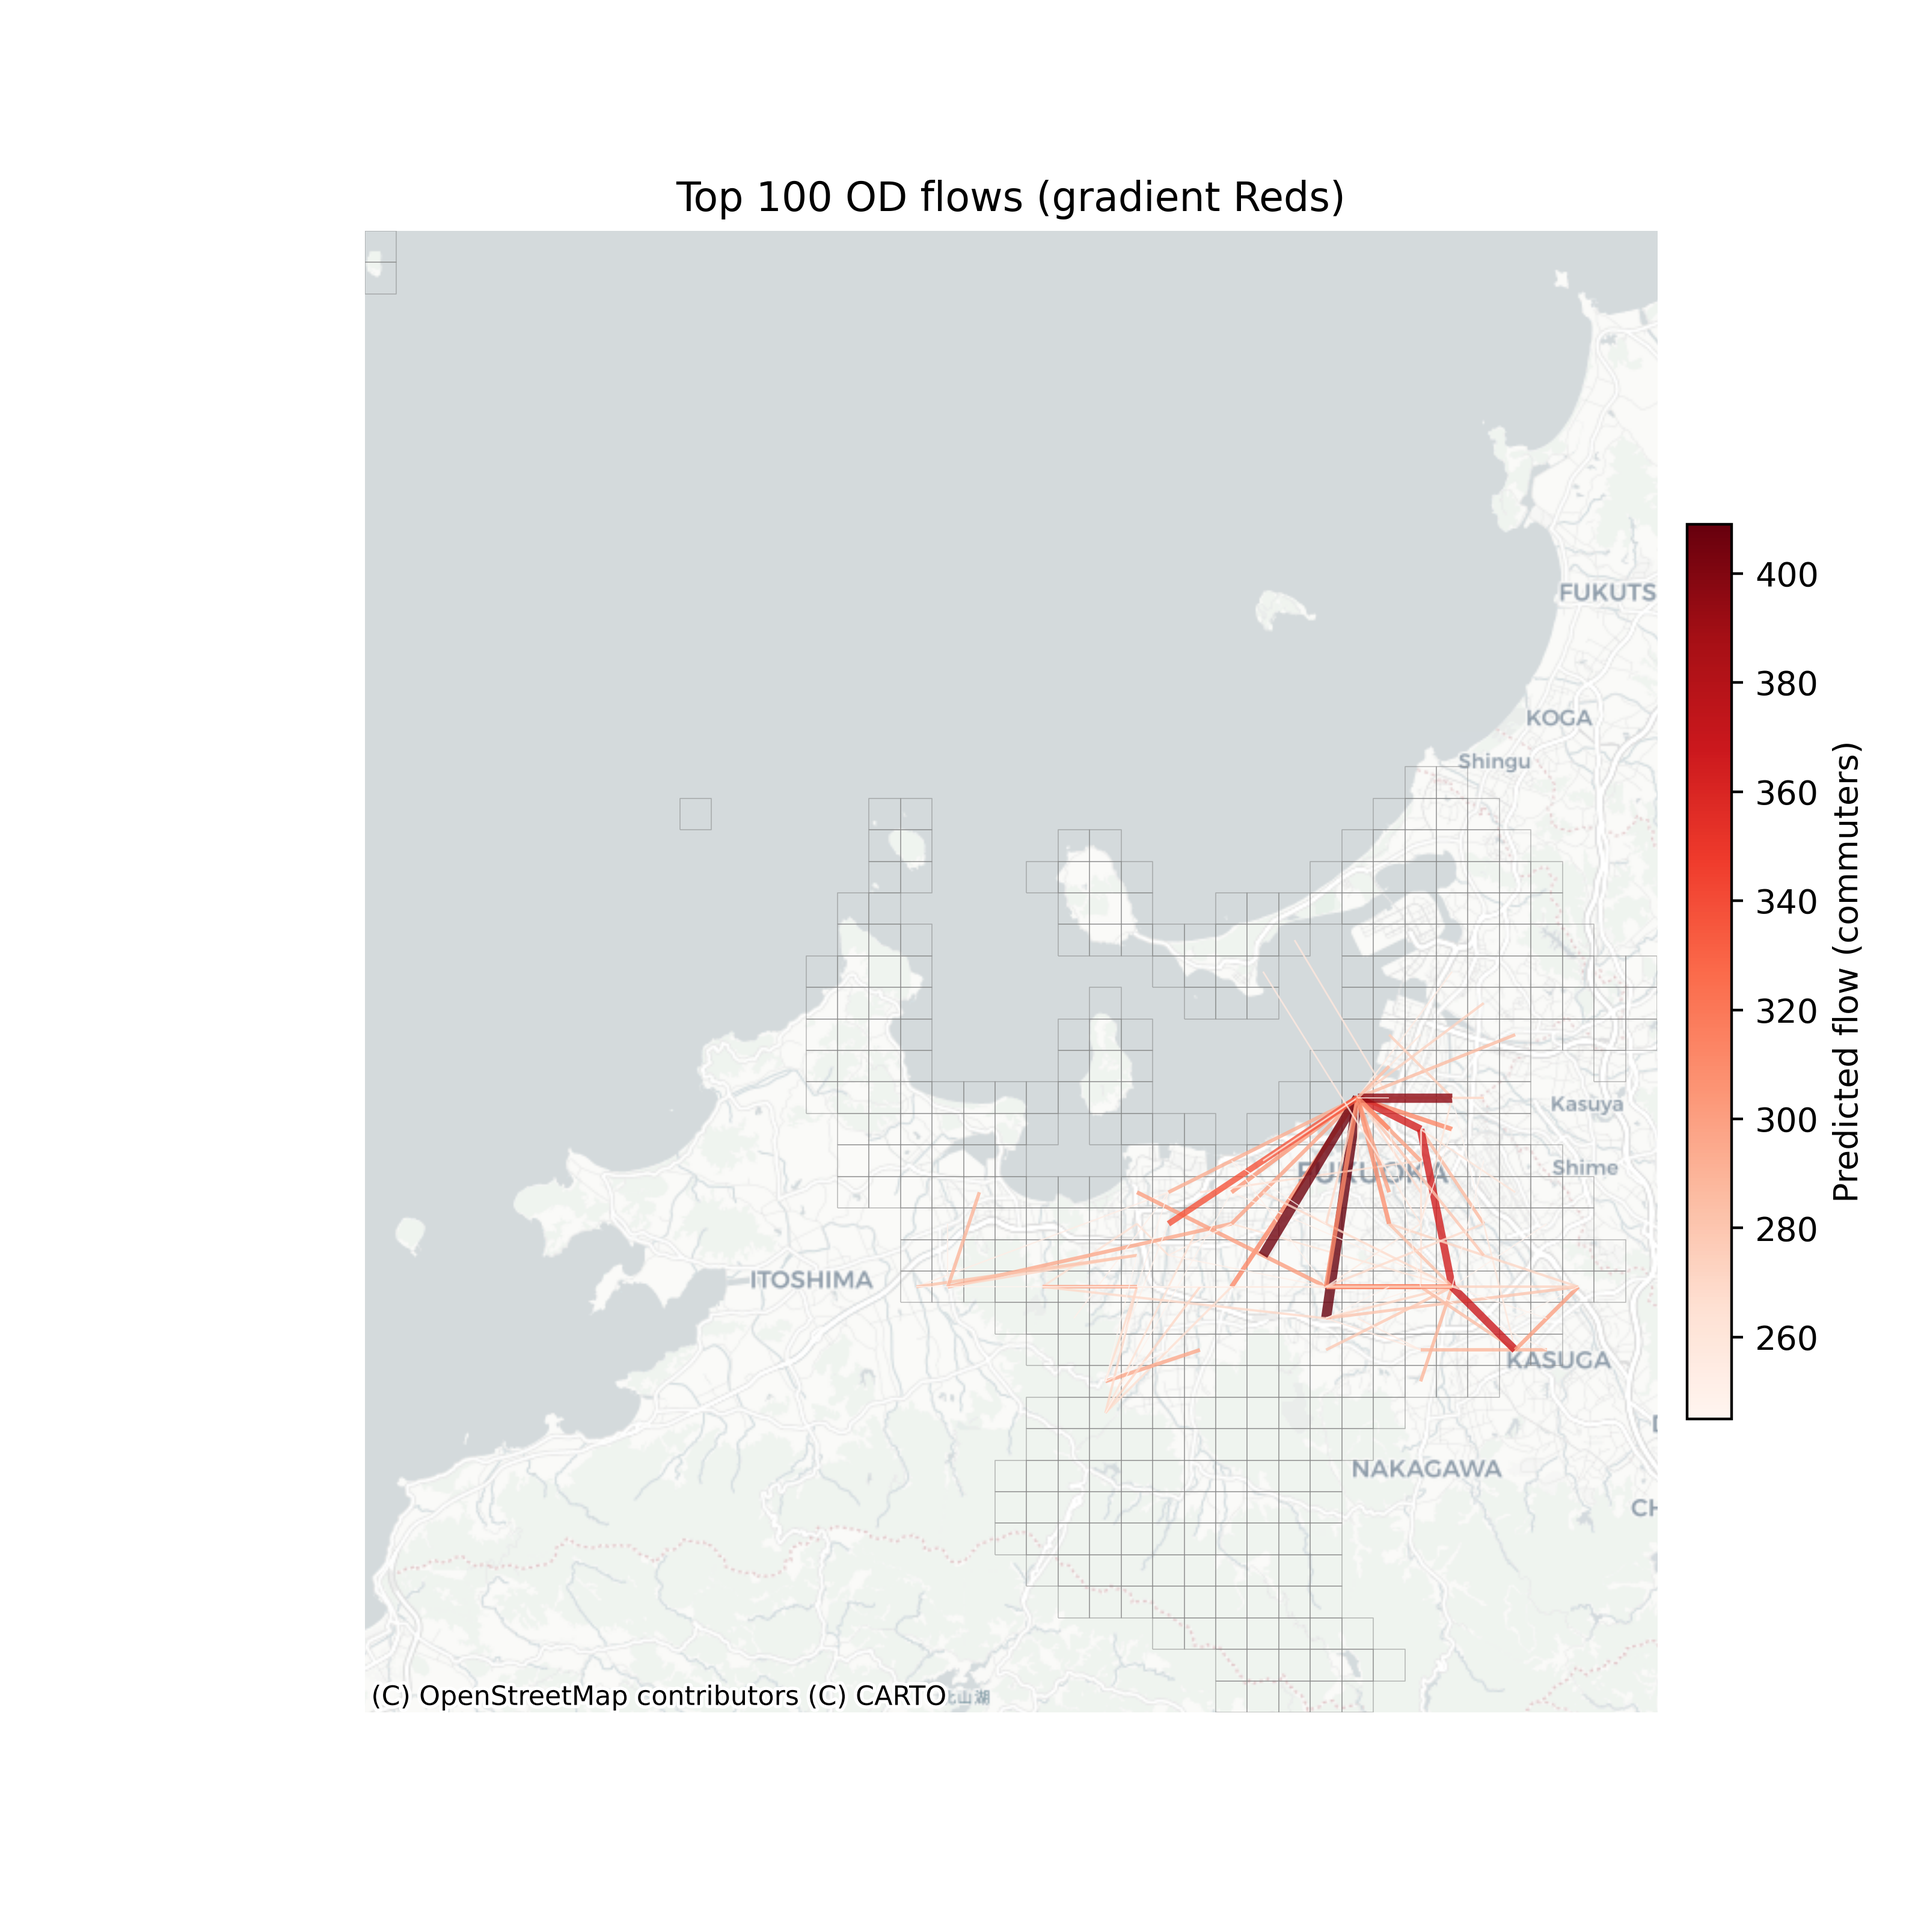
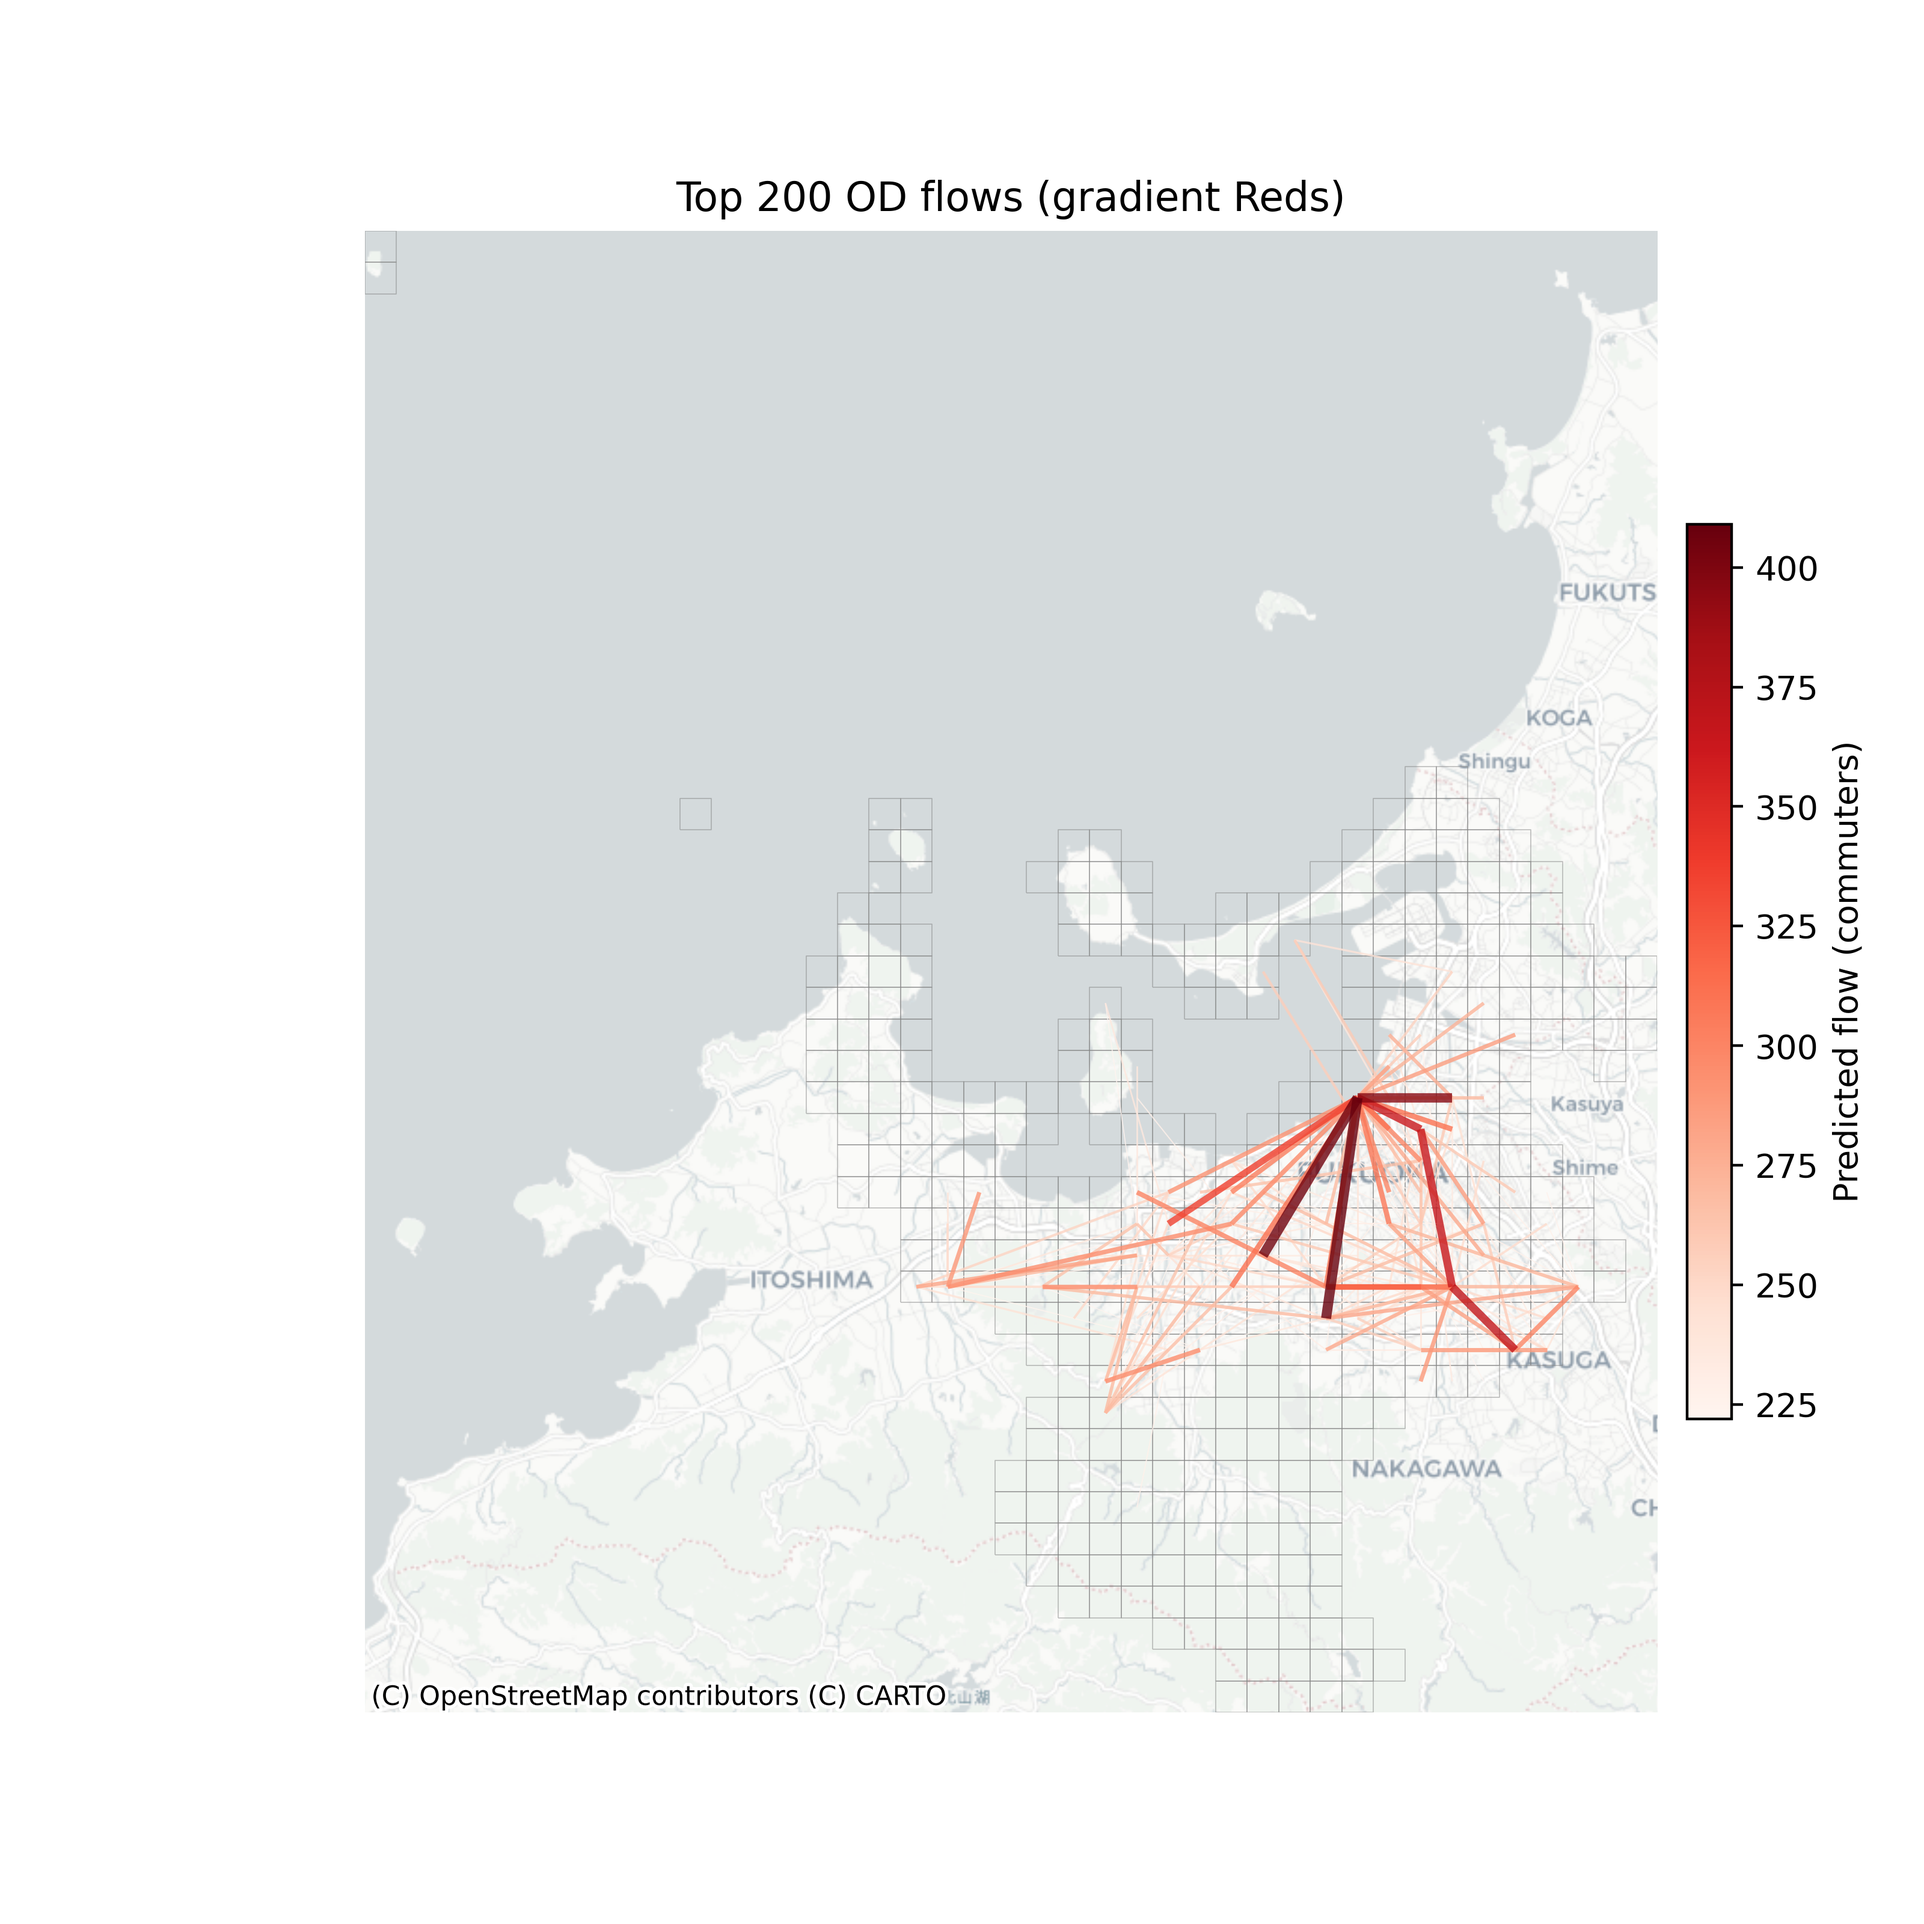
change plotting so that strongest link plot last

diff --git a/utils.py b/utils.py
@@ -52,18 +52,26 @@ def plot_od_topk_gradient(od, geometries, k=1000, cmap_name="Blues"):
 
     # 3. select top-k strongest flows
     k = min(k, len(flows))
-    top_idx = np.argpartition(-flows, k-1)[:k]
+    top_idx = np.argpartition(-flows, k - 1)[:k]
+
+    # take the corresponding indices / flows
     i_top = i_idx[top_idx]
     j_top = j_idx[top_idx]
     f_top = flows[top_idx]
 
-    # 4. build LineStrings
+    # sort by flow ascending so weakest are drawn first, strongest last (on top)
+    order = np.argsort(f_top)  # ascending
+    i_top = i_top[order]
+    j_top = j_top[order]
+    f_top = f_top[order]
+
+    # 4. build LineStrings in this sorted order
     line_geoms = [
         LineString([centroids.iloc[i], centroids.iloc[j]])
         for i, j in zip(i_top, j_top)
     ]
 
-    # 5. set up colormap + normalisation
+    # 5. set up colormap + normalisation based on actual OD values
     vmin, vmax = float(f_top.min()), float(f_top.max())
     norm = colors.Normalize(vmin=vmin, vmax=vmax)
     cmap = cm.get_cmap(cmap_name)
@@ -71,10 +79,10 @@ def plot_od_topk_gradient(od, geometries, k=1000, cmap_name="Blues"):
     # line widths (optional: slightly thicker for stronger flows)
     widths = 0.3 + 2.7 * (f_top - vmin) / (vmax - vmin + 1e-9)
 
-    # 6. create LineCollection
+    # 6. create LineCollection; array=f_top so colorbar reflects OD values
     lc = LineCollection(
         [np.array(line.coords) for line in line_geoms],
-        array=f_top,          # values used for colormap
+        array=f_top,
         cmap=cmap,
         norm=norm,
         linewidths=widths,
@@ -100,9 +108,11 @@ def plot_od_topk_gradient(od, geometries, k=1000, cmap_name="Blues"):
 
     # 8. colorbar legend
     sm = cm.ScalarMappable(norm=norm, cmap=cmap)
-    sm.set_array([])  # required for matplotlib < 3.8
+    sm.set_array(f_top)  # so the colorbar is tied to the actual OD values
     cbar = fig.colorbar(sm, ax=ax, fraction=0.03, pad=0.02)
     cbar.set_label("Predicted flow (commuters)")
+    # format ticks as integers for readability
+    cbar.ax.yaxis.set_major_formatter(plt.FuncFormatter(lambda x, pos: f"{int(round(x))}"))
 
     ax.set_title(f"Top {k} OD flows (gradient {cmap_name})")
 

diff --git a/s0_1_plot_od_flow.py b/s0_1_plot_od_flow.py
@@ -91,7 +91,7 @@ def main():
     #     low=q_low,
     #     high=q_high,
     # )
-    fig = plot_od_topk_gradient(od, gdf, k=200, cmap_name="Reds")
+    fig = plot_od_topk_gradient(od, gdf, k=100, cmap_name="Reds")
     # fig.savefig("od_fukuoka_top1000_blues.png", bbox_inches="tight", dpi=200)
 
     if args.output:
